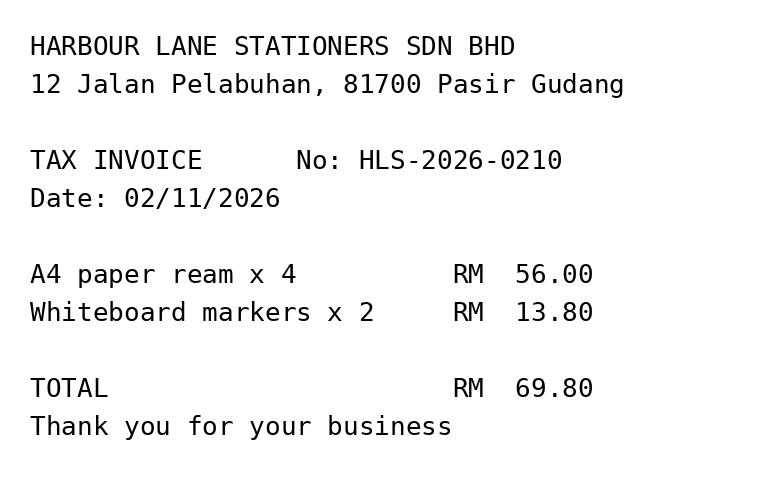
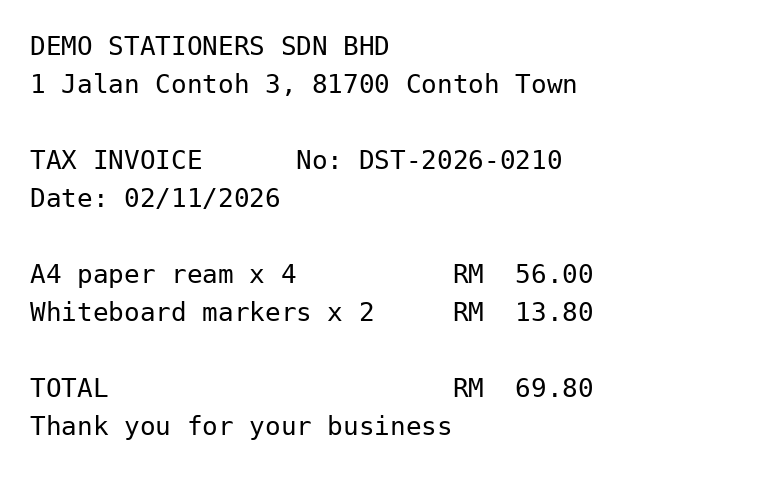
Use clearly fictional supplier names and addresses in the samples and try-api.ps1

Changed region(s): [[0.0605, 0.1464, 0.8171, 0.205], [0.0303, 0.0586, 0.6961, 0.1172], [0.4842, 0.2929, 0.5447, 0.3515]]

diff --git a/warden-ocr/tests/test_ocr.py b/warden-ocr/tests/test_ocr.py
@@ -27,7 +27,7 @@ def test_reads_a_receipt_inside_the_jail(api, tmp_path):
     r = send(api, (SAMPLES / "receipt-clean.png").read_bytes())
     assert r.status_code == 200, r.text
     body = r.json()
-    assert "HARBOUR LANE STATIONERS" in body["text"] and "69.80" in body["text"]
+    assert "DEMO STATIONERS" in body["text"] and "69.80" in body["text"]
     assert body["sandbox"]["landlock_abi"] >= 1 and body["sandbox"]["network"] == "none"
     assert list(tmp_path.iterdir()) == []  # the job folder is removed afterwards
 

diff --git a/docs/samples/make_samples.py b/docs/samples/make_samples.py
@@ -7,10 +7,10 @@ from PIL import Image, ImageDraw, ImageFont
 HERE = Path(__file__).resolve().parent
 FONT = "/usr/share/fonts/truetype/dejavu/DejaVuSansMono.ttf"
 
-CLEAN = """HARBOUR LANE STATIONERS SDN BHD
-12 Jalan Pelabuhan, 81700 Pasir Gudang
+CLEAN = """DEMO STATIONERS SDN BHD
+1 Jalan Contoh 3, 81700 Contoh Town
 
-TAX INVOICE      No: HLS-2026-0210
+TAX INVOICE      No: DST-2026-0210
 Date: 02/11/2026
 
 A4 paper ream x 4          RM  56.00
